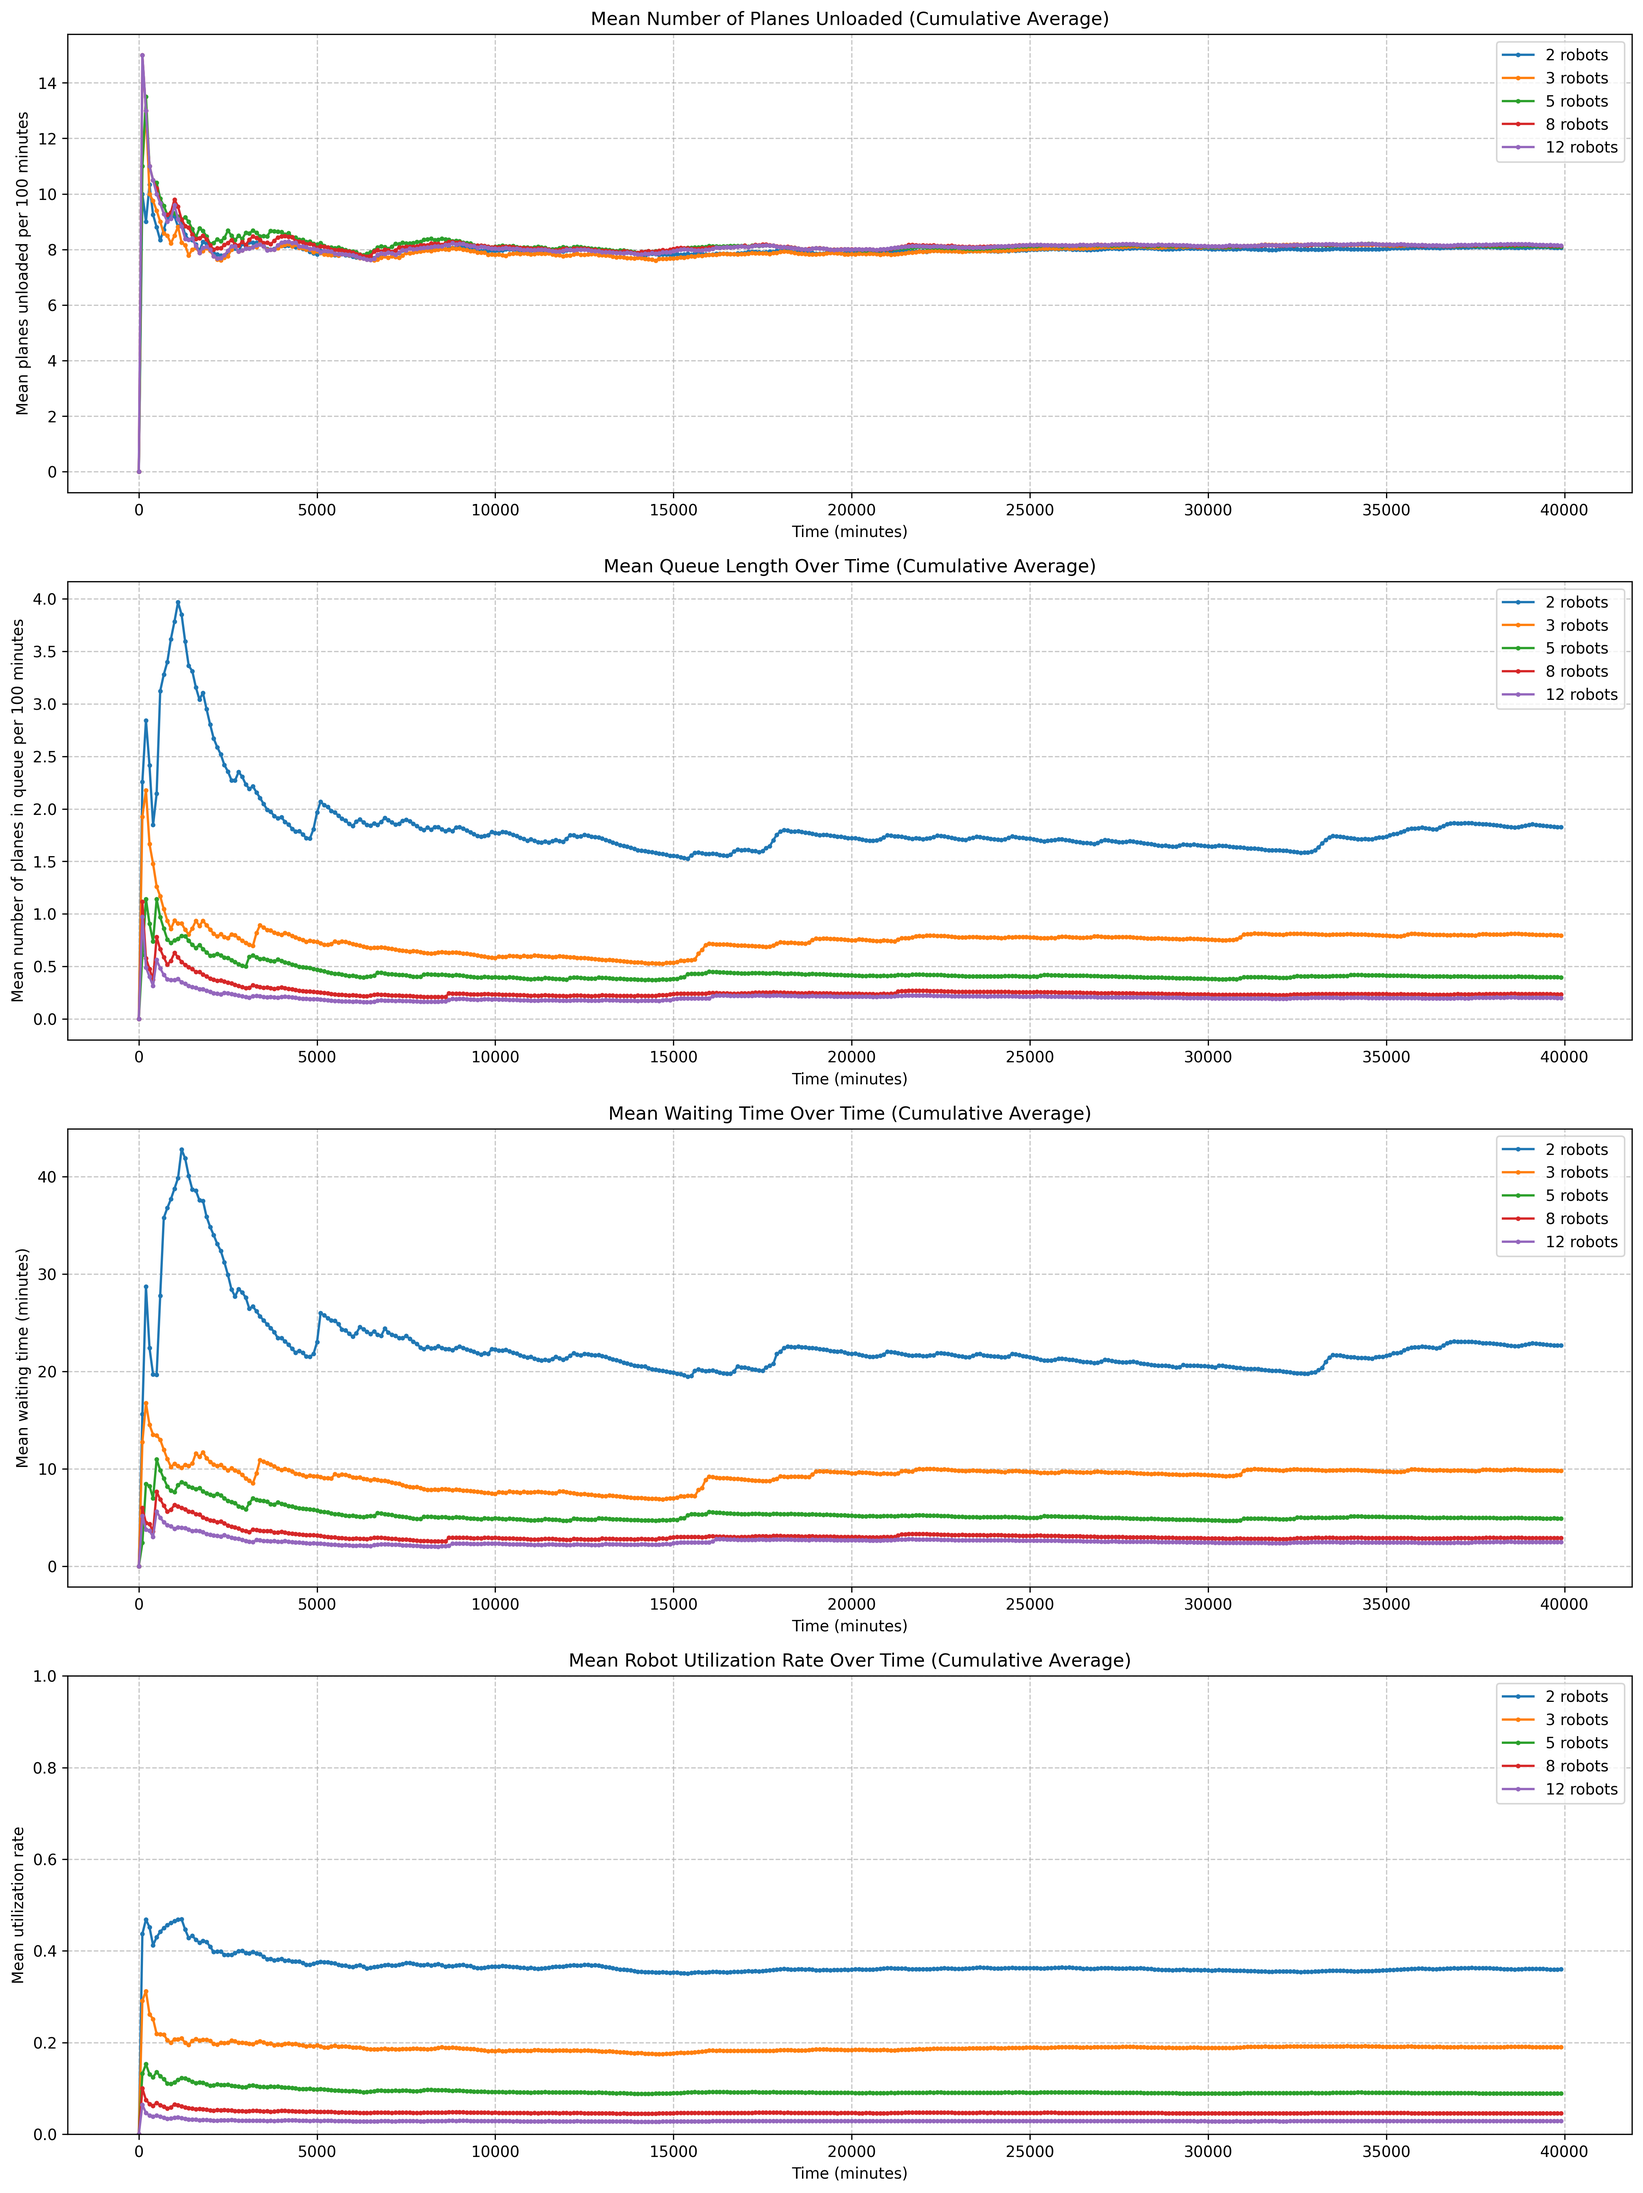
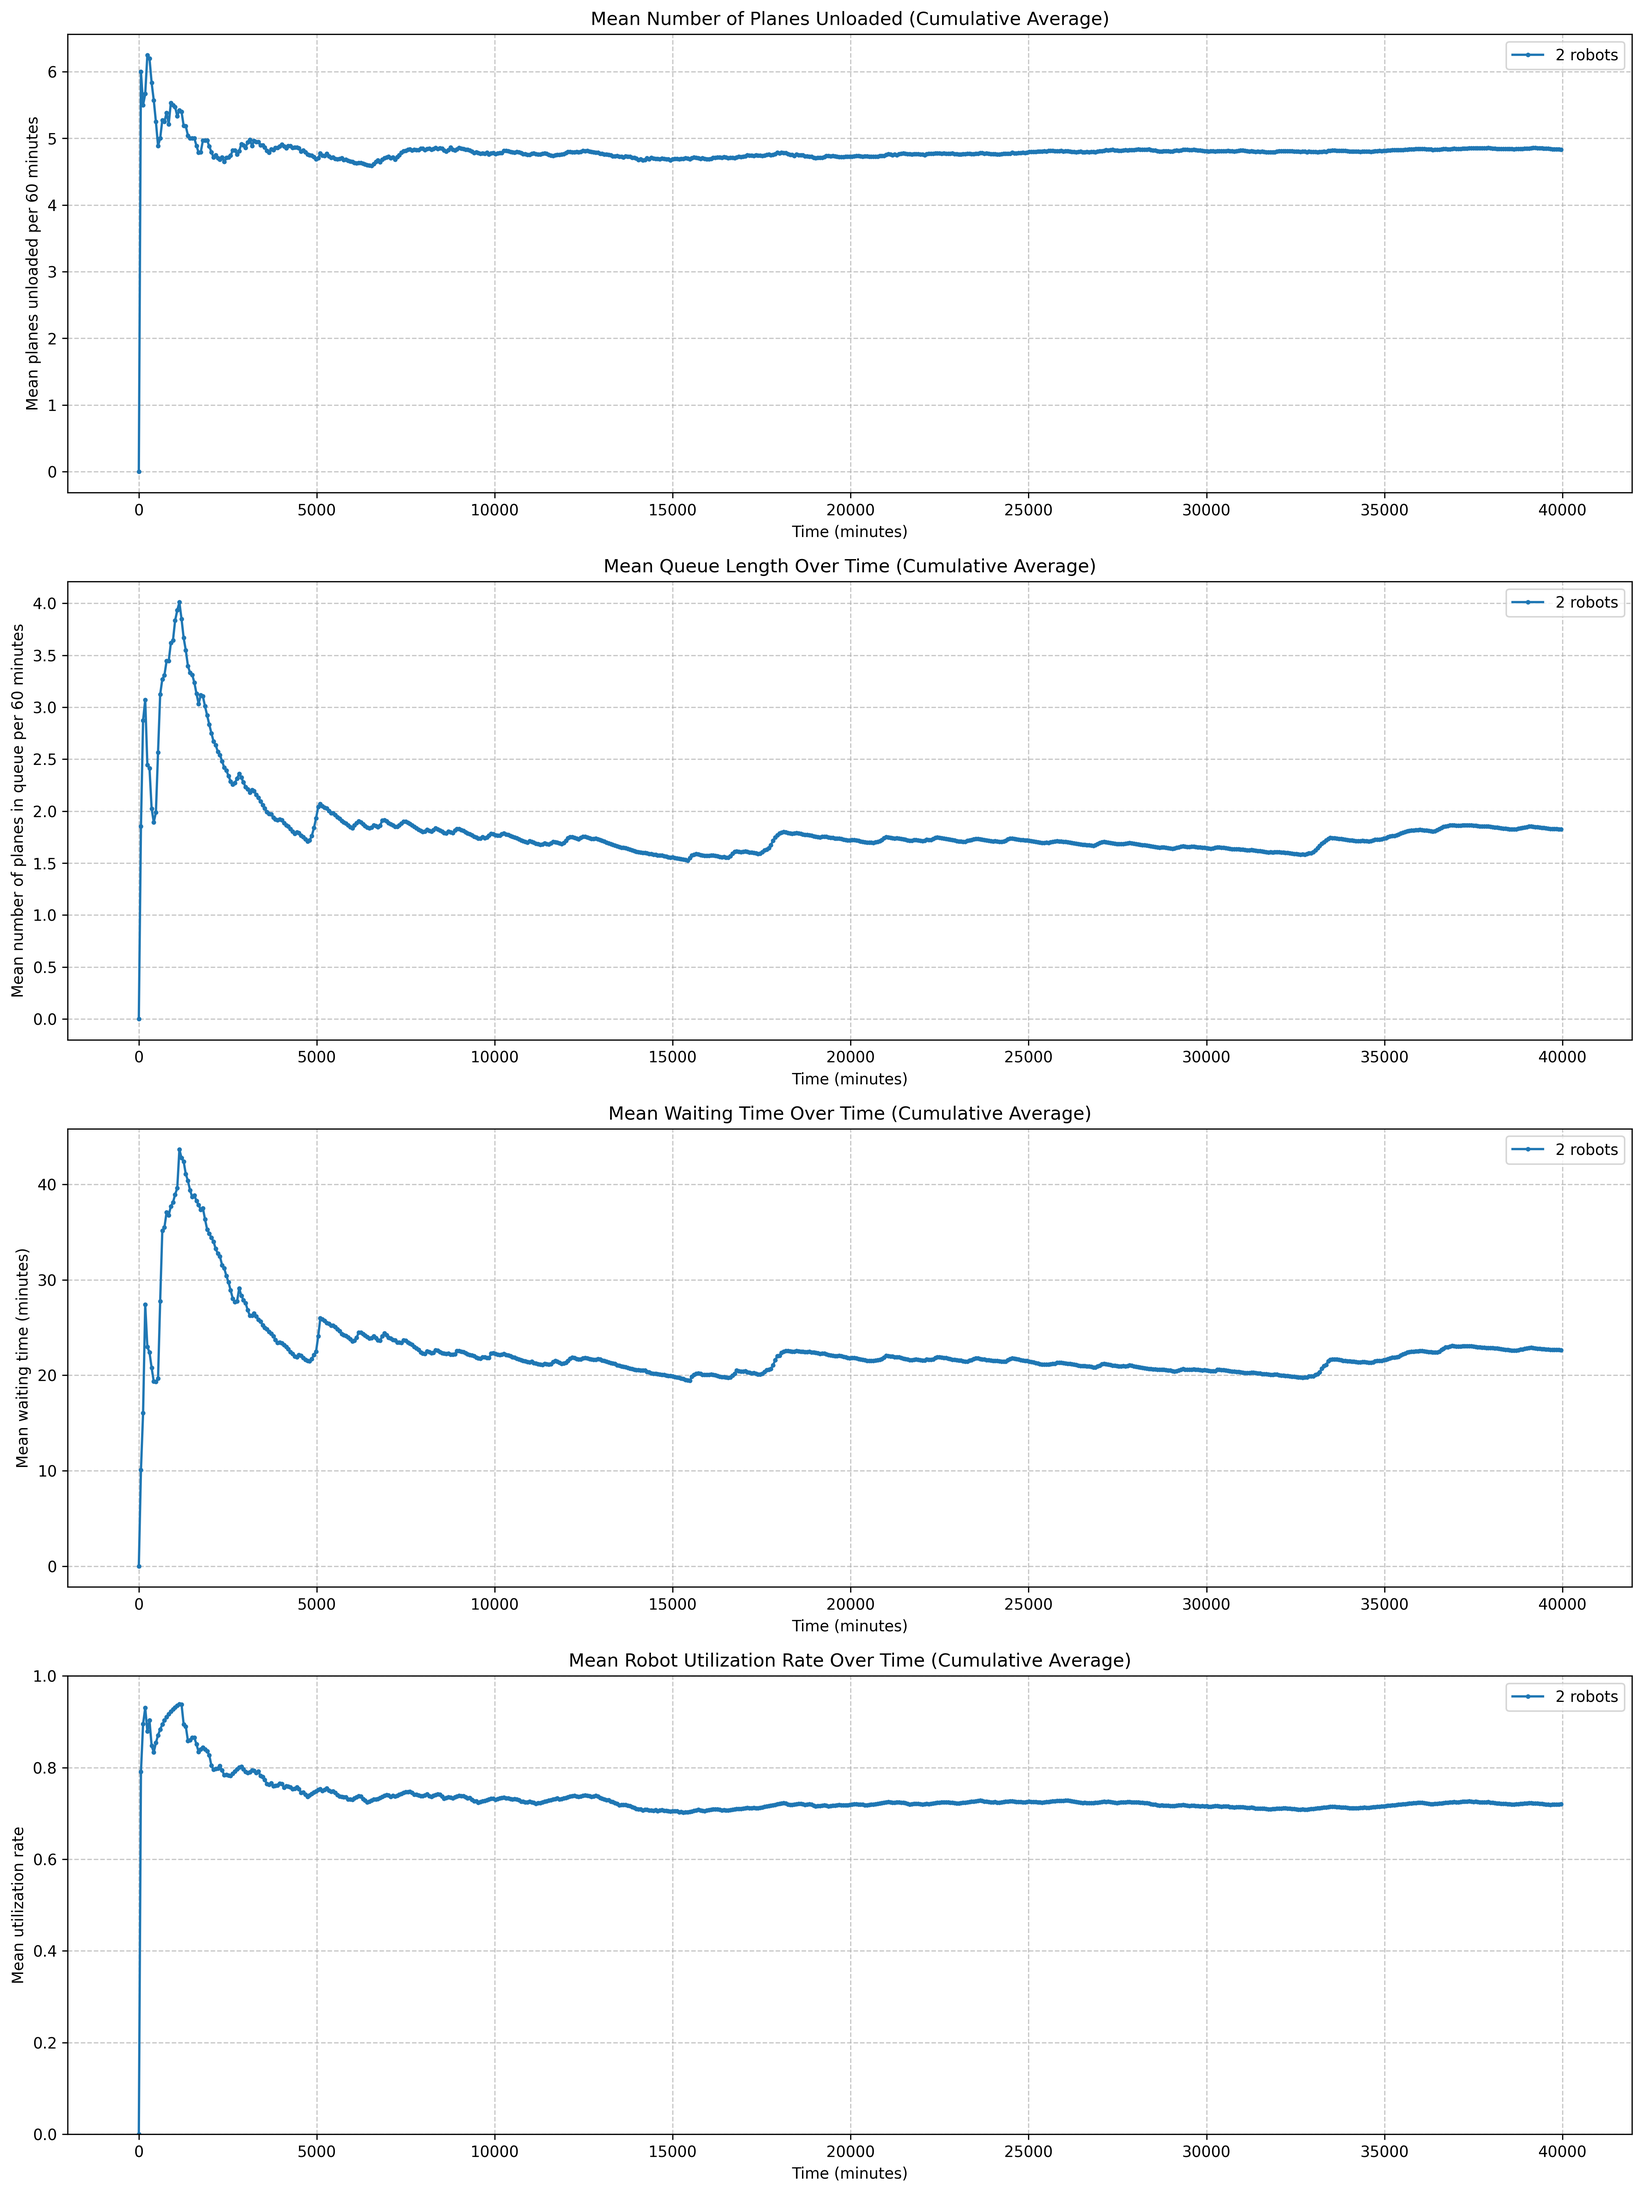
feat: update formatting configuration, enhance simulation metrics calculations, and remove obsolete statistics files

diff --git a/tp1/main.py b/tp1/main.py
@@ -1,11 +1,12 @@
 from tp1.src.models.airport import Airport
+from tp1.src.models.airplane import AirPlane
 from tp1.config.simulation import SimulationConfig
 from tp1.src.visualization.plots import SimulationPlots
 from tp1.config.logger import setup_logger
 import time
 
 SIMULATION_DURATION = 40000
-WINDOW_SIZE = 100
+WINDOW_SIZE = 60
 
 
 def main():
@@ -23,35 +24,18 @@ def main():
         airport.run_simulation(SIMULATION_DURATION)
 
         current_time = airport.simulator.get_current_time()
-        unloaded_planes = sum(
-            1
-            for plane in airport.planes
-            if plane.status == airport.planes[0].status.UNLOADED
-        )
-        queue_waiting_times = [
-            plane.waiting_time
-            for plane in airport.planes
-            if plane.service_start_time is not None
-        ]
-        avg_queue_waiting_time = sum(queue_waiting_times) / len(queue_waiting_times)
+        unloaded_planes = AirPlane.count_unloaded_by_time(airport.planes, current_time)
+        queue_waiting_time = AirPlane.calculate_mean_waiting_time(airport.planes, current_time)
 
         root_logger.info(f"🤖 Results for {num_robots} robots:")
         root_logger.info(f"Simulation time: {current_time:.1f} minutes")
         root_logger.info(f"Total planes: {len(airport.planes)}")
         root_logger.info(f"Planes unloaded: {unloaded_planes}")
+        root_logger.info(f"Planes per hour: {airport.get_planes_per_hour(current_time):.1f}")
         root_logger.info(f"Current queue length: {airport.get_queue_length()}")
-        root_logger.info(
-            f"Robot utilization: {airport.get_robot_utilization(current_time):.2%}"
-        )
-        root_logger.info(
-            f"Planes per hour: {airport.get_planes_per_hour(current_time):.1f}"
-        )
-        root_logger.info(
-            f"Average queue waiting time: {avg_queue_waiting_time:.1f} minutes"
-        )
-        root_logger.info(
-            f"Scenario execution time: {time.time() - start_time:.2f} seconds"
-        )
+        root_logger.info(f"Average queue waiting time: {queue_waiting_time:.1f} minutes")
+        root_logger.info(f"Robot utilization: {airport.get_robot_utilization(current_time):.2%}")
+        root_logger.info(f"Scenario execution time: {time.time() - start_time:.2f} seconds")
 
         scenarios[num_robots] = airport.planes
 

diff --git a/tp1/src/models/airplane.py b/tp1/src/models/airplane.py
@@ -99,12 +99,7 @@ class AirPlane:
         )
 
     @classmethod
-    def calculate_mean_robot_utilization(
-        cls, planes: list["AirPlane"], time: int, num_robots: int
-    ) -> float:
+    def calculate_mean_robot_utilization(cls, planes: list["AirPlane"], time: int) -> float:
         """Calculate the mean robot utilization rate up to a given time."""
         total_service_time = cls.calculate_total_service_time(planes, time)
-        total_robot_minutes = time * num_robots
-        return (
-            total_service_time / total_robot_minutes if total_robot_minutes > 0 else 0
-        )
+        return total_service_time / time if time > 0 else 0

diff --git a/tp1/src/visualization/plots.py b/tp1/src/visualization/plots.py
@@ -109,9 +109,7 @@ class SimulationPlots:
 
         for scenario_num, planes in scenarios.items():
             mean_utilization_rates = [
-                AirPlane.calculate_mean_robot_utilization(
-                    planes, window_end, scenario_num
-                )
+                AirPlane.calculate_mean_robot_utilization(planes, window_end)
                 for window_end in time_windows
             ]
             ax.plot(

diff --git a/tp1/src/models/airport.py b/tp1/src/models/airport.py
@@ -119,8 +119,7 @@ class Airport:
             return 0.0
 
         total_busy_time = sum(
-            (p.service_end_time or current_time)
-            - (p.service_start_time or current_time)
+            (p.service_end_time or current_time) - (p.service_start_time or current_time)
             for p in self.planes
             if p.service_start_time is not None
         )

diff --git a/tp1/config/simulation.py b/tp1/config/simulation.py
@@ -11,10 +11,10 @@ class SimulationConfig:
     RANDOM_SEED: ClassVar[int] = 42
     ROBOT_SCENARIOS: ClassVar[Dict[int, float]] = {
         2: 9.0,
-        3: 7.0,
-        5: 5.5,
-        8: 4.5,
-        12: 4.2,
+        # 3: 7.0,
+        # 5: 5.5,
+        # 8: 4.5,
+        # 12: 4.2,
     }
 
     def __init__(self, num_robots: int):
